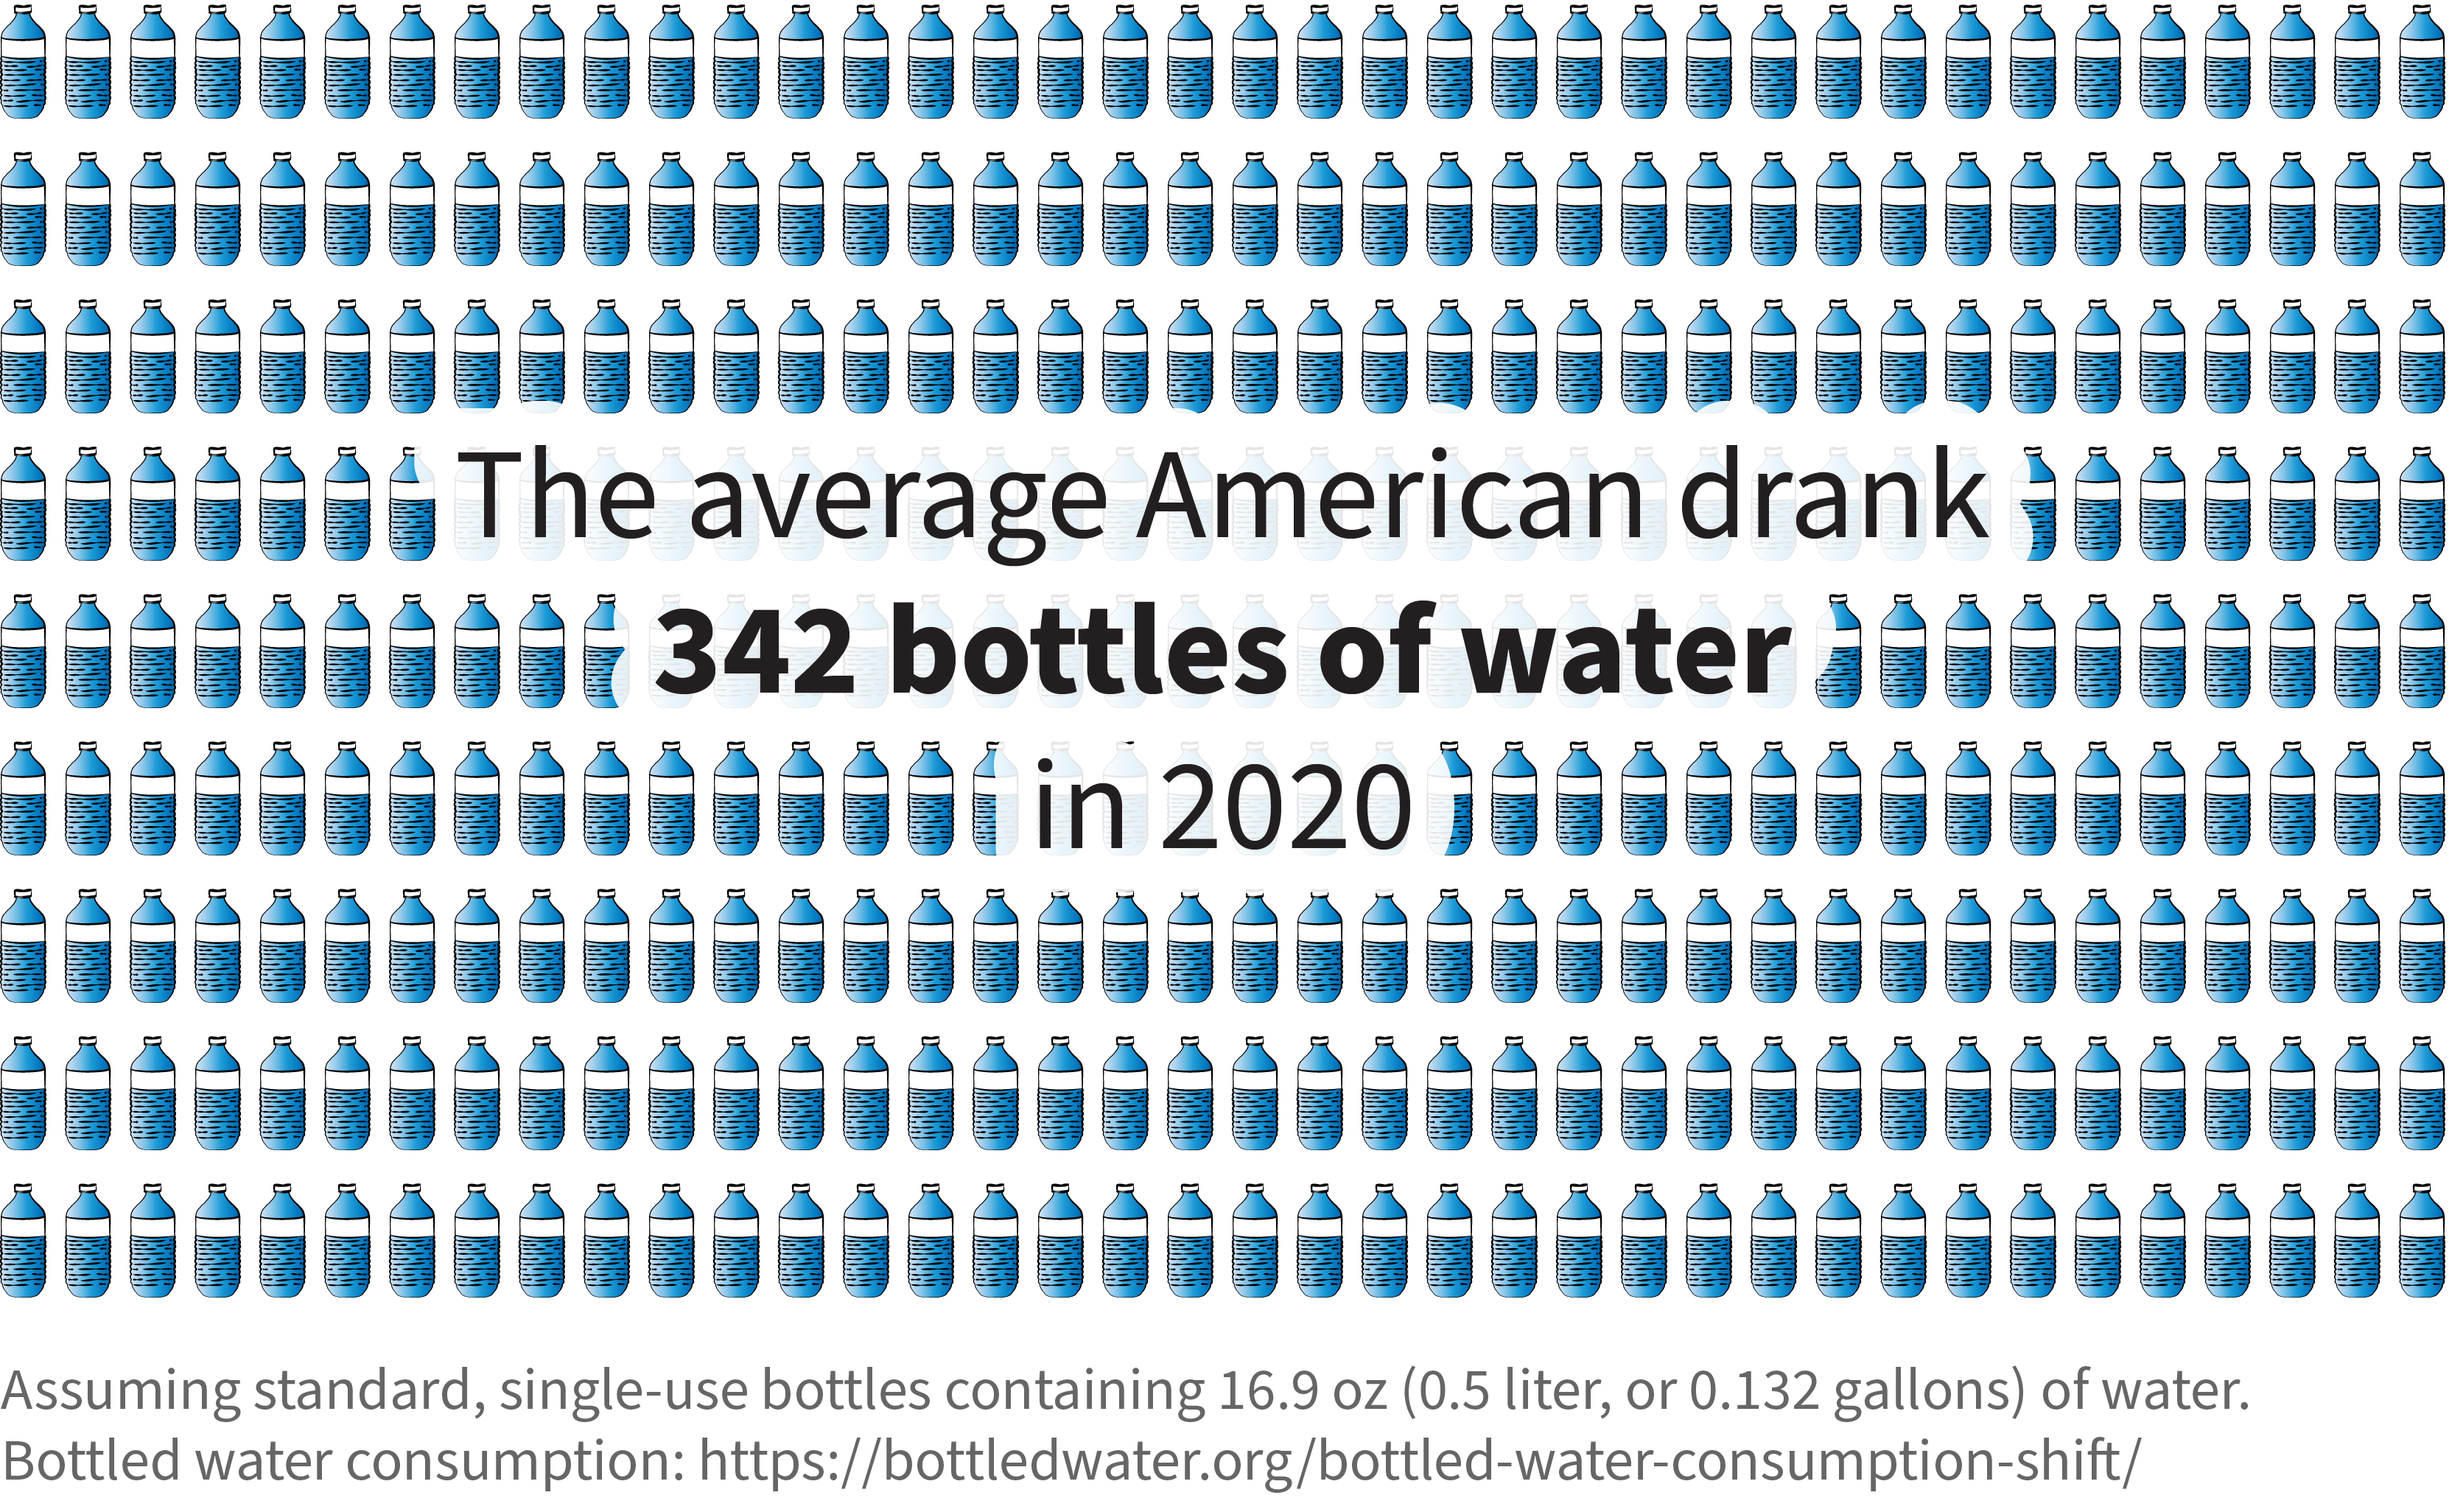
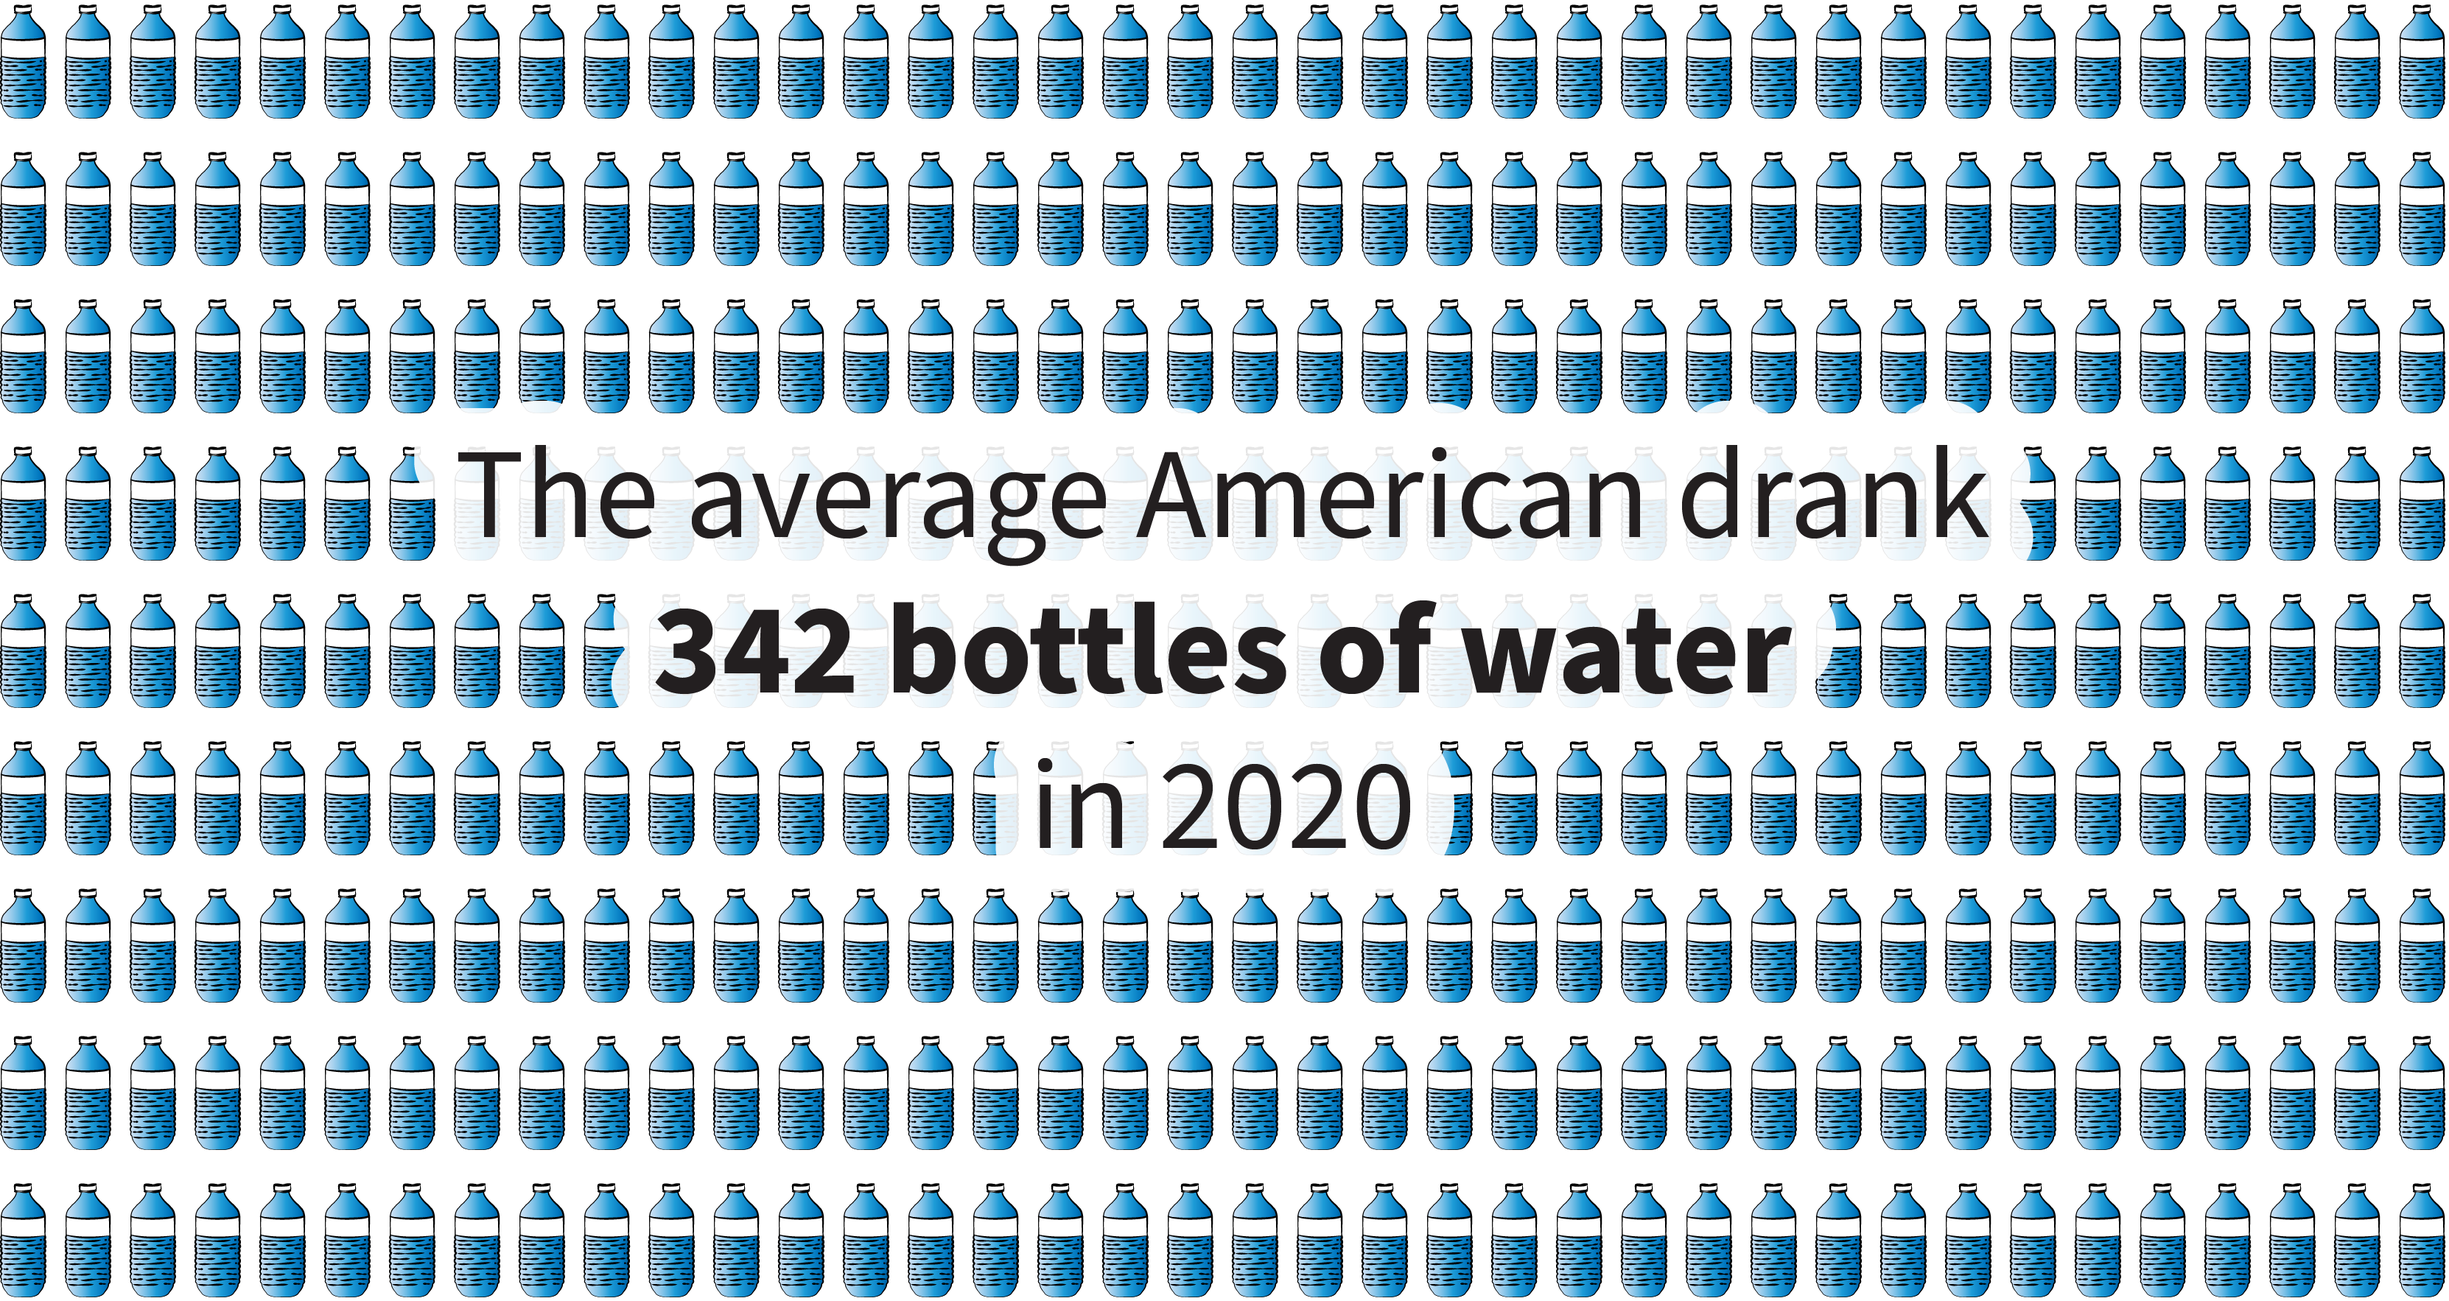
Add caption for pictogram

diff --git a/src/components/Inventory.vue b/src/components/Inventory.vue
@@ -9,11 +9,16 @@
         <p v-html="inventoryText.paragraph1" />
         <br>
         <p v-html="inventoryText.paragraph2" />
-        <img
-          :class="mobileView ? 'pictogram img-mobile' : 'pictogram image-float'"
-          src="../assets/images/bottled-water_consumption-pictogram_less-text_20231016.png"
-          alt="Pictogram showing 342 bottles of water with the text, “The average American drank 342 bottles of water in 2020.” Text below the pictogram reads, “Assuming standard, single-use bottles containing 16.9 oz (0.5 liter, or 0.132 gallons) of water. Bottled water consumption: https://bottledwater.org/bottled-water-consumption-shift/”"
-        >
+        <figure>
+          <img
+            class="pictogram"
+            src="../assets/images/bottled-water_consumption-pictogram_less-text_20231016.png"
+            alt="Pictogram showing 342 bottles of water with the text, “The average American drank 342 bottles of water in 2020.” Text below the pictogram reads, “Assuming standard, single-use bottles containing 16.9 oz (0.5 liter, or 0.132 gallons) of water. Bottled water consumption: https://bottledwater.org/bottled-water-consumption-shift/”"
+          >
+          <figcaption>
+            Assuming standard, single-use bottles containing 16.9 oz (0.5 liter, or 0.132 gallons) of water. Bottled water consumption: <a href="https://bottledwater.org/bottled-water-consumption-shift/" target="_blank">https://bottledwater.org/bottled-water-consumption-shift/</a>
+          </figcaption>
+        </figure>
         <br>
         <p v-html="inventoryText.paragraph3" />
         <br>
@@ -92,12 +97,10 @@ export default {
     justify-self: start;
   }
   .pictogram {      
-    width: 35vw;
-    max-width: 1000px;
-    margin: 3rem 0rem 3rem 4rem;
-  }
-  .pictogram.img-mobile {
     width: 98%;
-    margin: 2.5rem 0rem 2.5rem 0rem;
+    margin: 4rem 0rem 1.5rem 0rem;
+    @media screen and (max-width: 600px) {
+      margin: 2.5rem 0rem 1.5rem 0rem;
+    }
   }
 </style>
